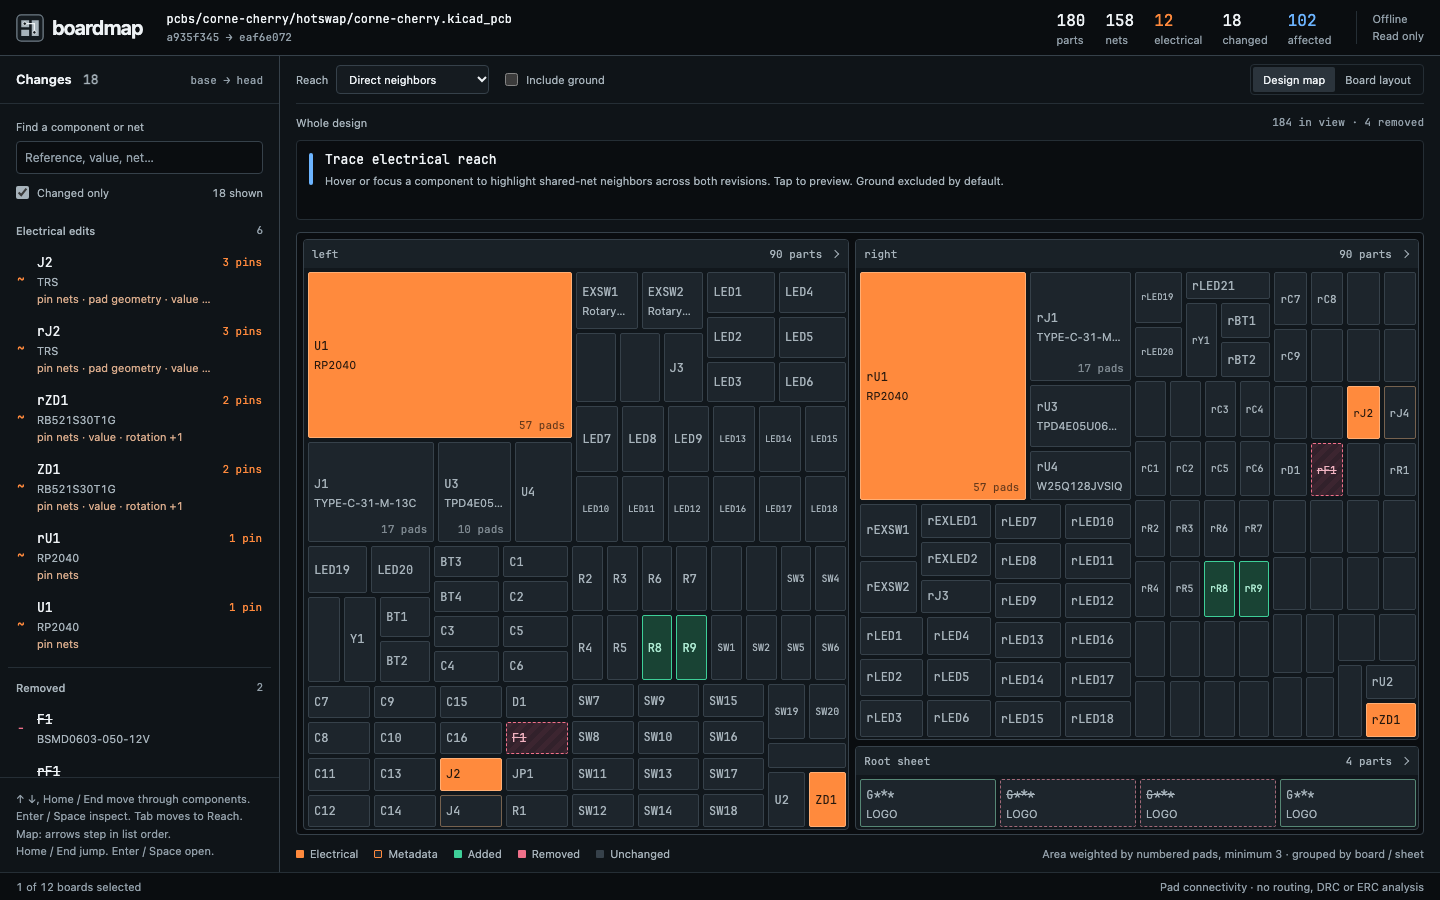
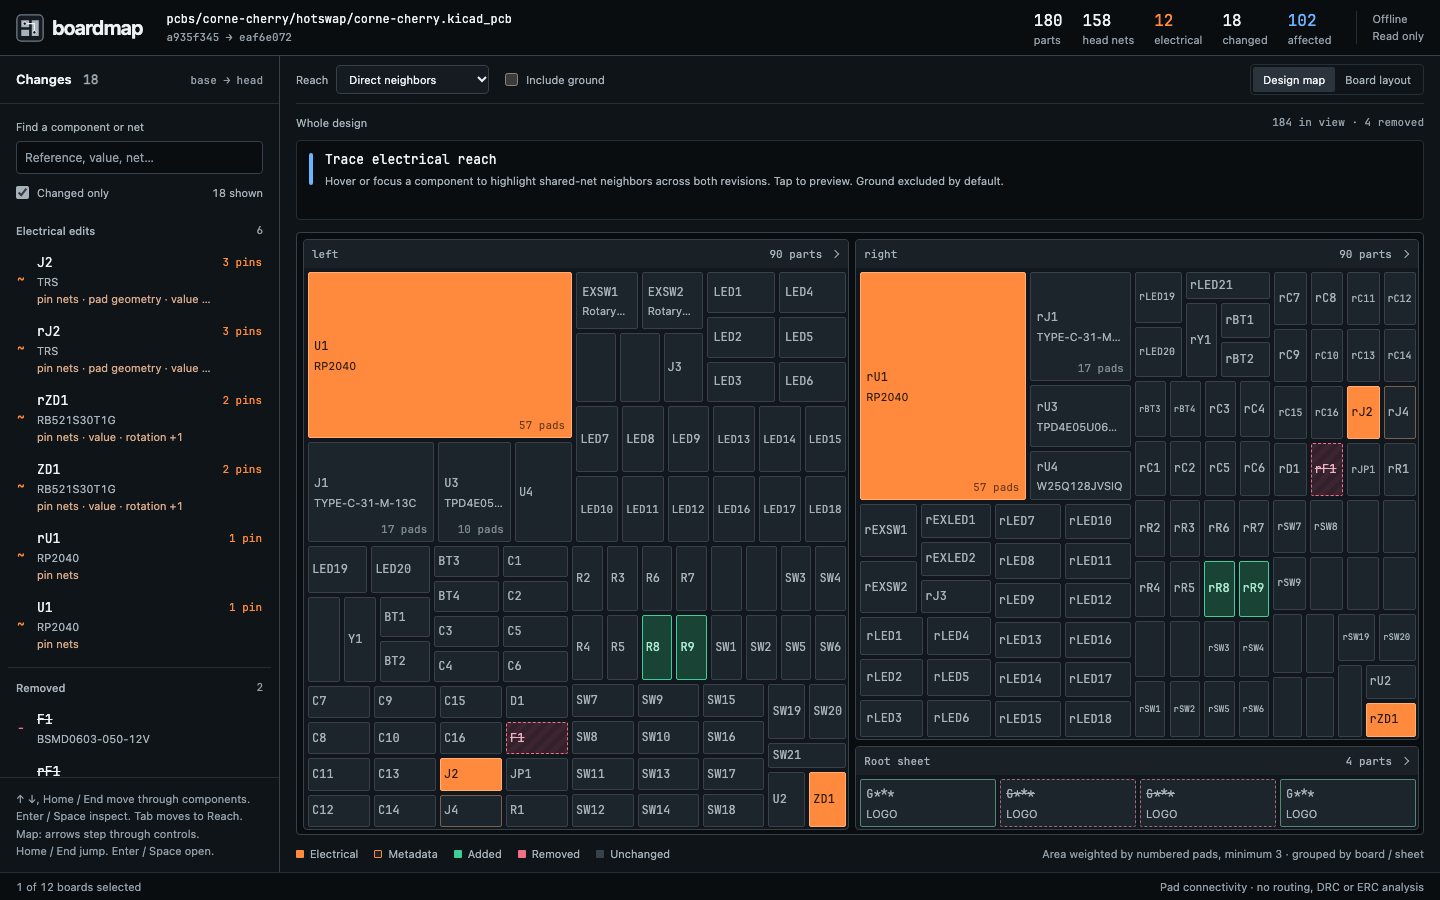
Capture named rail loads and laptop and touch review flows

diff --git a/docs/media/detail/README.md b/docs/media/detail/README.md
@@ -1,0 +1,53 @@
+# Named reach and detailed review proof
+
+Actual Chromium captures from pinned HackRF and Corne git objects. The UI reads the full boards; none of these reports substitutes synthetic component data.
+
+| Capture | Viewport | Evidence |
+| --- | --- | --- |
+| `hackrf/map.png` | 1440 × 900 | Whole design with 469 components, 390 raw changes and 111 electrical changes. |
+| `hackrf/reach.png` | 1440 × 900 | U23 reaches 205 neighbors. The readout ranks VCC first with 76 peers, preserving the original source while the net list is read. |
+| `hackrf/reached-parts.png` | 1440 × 900 | Inspector disclosure names every reached component by net, including removed components and loads outside the current sheet. |
+| `hackrf/laptop-inspector.png` | 1024 × 720 | U17 replacement value, footprint and part number precede its 51 changed pins. The first pin rows are visible. |
+| `hackrf/classification.png` | 1440 × 900 | P69's Metadata classification explains the verified legacy DNP/BOM-field migration and keeps its raw rows. |
+| `hackrf/touch-sheet.png` | 390 × 844 | Drilled sheet scrolls vertically and every component target measures at least 32 pixels in both dimensions. |
+| `corne/map.png` | 1440 × 900 | Smaller real PR with 184 components across both revisions, 18 changes and 12 electrical changes. |
+| `corne/reach.png` | 1440 × 900 | Rail and signal neighbor counts in the map readout. |
+| `corne/reached-parts.png` | 1440 × 900 | Named reachable parts remain inspectable without identifying anonymous map tiles. |
+| `corne/touch-sheet.png` | 390 × 844 | Scrolled sheet with readable references and larger touch targets. |
+
+The refreshed eight-second hero and four frames are in `../instrument/`. Earlier capture directories record prior revisions and their original counts.
+
+## Reproduce
+
+Use Node 22+, run `npm ci`, and install Chromium with `npx playwright install chromium`, or set `BOARDMAP_BROWSER` to an existing executable. Fetch the pinned revisions with `scripts/demo.mjs` and stop its server before capturing. Set `HACKRF_CACHE` and `CORNE_CACHE` to the resulting local git caches.
+
+```sh
+npm test
+npm run test:e2e -- --base HEAD --head HEAD
+npm run test:e2e -- --fixture
+npm run test:e2e -- --fixture --removed
+npm run test:e2e -- --repo "$HACKRF_CACHE" \
+  --base f6598e7b14b7ec539126479e9c6d095c668a534e \
+  --head 3bdc5547004c8244de5f37104410c363854e5634 \
+  --out docs/media/detail/hackrf --detail
+npm run test:e2e -- --repo "$CORNE_CACHE" \
+  --base a935f345c5e824aeaaa8f624ae2134fae47e128e \
+  --head eaf6e072fe273c2cfd64690de135ddb7ffe870f9 \
+  --board pcbs/corne-cherry/hotswap/corne-cherry.kicad_pcb \
+  --out docs/media/detail/corne --detail
+node scripts/capture-demo.mjs "$CORNE_CACHE" --gif
+```
+
+`--detail` limits captures to the states listed above. Each run closes its browser and ephemeral loopback server.
+
+## Observed checks
+
+All 40 unit tests and five browser commands pass. Net-group tests cover shared peers appearing on multiple nets, historical source membership, transitive reach and board isolation. Browser assertions compare every named reference against `reach()`, follow a reached reference into its inspector, and verify one Tab stop for the reference group. Net counts are sorted without dropping power loads. Counts describe the union of the two revisions and may overlap between nets.
+
+Laptop checks cover the first semantic row at 1280 × 800 and 1024 × 720. Corne R8 and R9 remain labeled at 1280 × 800, and J2 remains labeled at 1024 × 720. Text bounds still require whole references at 9 pixels or larger. Mouse drill-in leaves no unrequested component trace; keyboard drill-in still focuses its first component.
+
+Phone checks measure every drilled target, send two taps at one unchanged physical coordinate, and verify Back returns the exact component to the visible viewport. Overview targets remain small; the changes list and scrolling sheet provide precise selection.
+
+The package dry run contains 18 files, excludes fixtures and media, and bundles no runtime dependencies. An offline tarball install produced the real HackRF report and served the HTML, application script, layout helper, review helper, font and icon successfully. FFprobe reports the refreshed GIF as 8.000 seconds.
+
+The source boards retain their upstream licenses. See `test/fixtures/README.md` and the pinned source links in the root README. Pad regions remain approximate for nonstandard shapes; this change adds no copper, DRC or ERC analysis.
